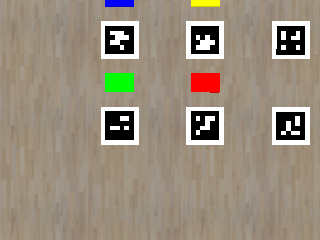
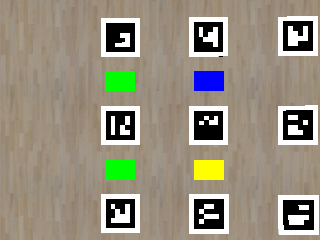
digit_detect fixed

diff --git a/clover_simulation/src/kinda_final/tracking_landing.py b/clover_simulation/src/kinda_final/tracking_landing.py
@@ -2,6 +2,7 @@
 
 import os
 import errno
+import sys
 import math
 import rospy
 import threading
@@ -17,10 +18,42 @@ import cv_test
 from mavros_msgs.srv import CommandBool
 import iamangrynow
 
+###################
+# UNCOMMENT FOR PROD
+##################
+
+# __INVENTARIZATION = True
+# __DP_DETECTION = True
+# __DELIVERING = True
+# __SIM = False
+
+# __DOUBLE_CHECK = True
+
+# __DEBUG_DP = False
+# __DEBUG_DPS = [(1, 1, 0), (3, 1, 2)]
+
+
+# SAFE_HEIGHT = 2.5
+# SPEED = 0.8
+# CAM_HEIGHT = 280
+# CAM_WIDTH = 320
+# TOLERANCE = 20
+# KX = 0.01
+# KY = 0.01
+# DEFAULT_ANGLE = 0
+# DELIVERY_SPEED = 0.5
+# INVENT_HEIGHT = 0.5
+# DP_DETECT_HEIGHT = 2.0
+
 __INVENTARIZATION = False
 __DP_DETECTION = True
 __DELIVERING = True
 __SIM = True
+
+__DOUBLE_CHECK = True
+
+__DEBUG_DP = False
+__DEBUG_DPS = [(1, 1, 0), (3, 1, 2)]
 
 
 SAFE_HEIGHT = 2.5
@@ -33,7 +66,7 @@ KY = 0.01
 DEFAULT_ANGLE = 0
 DELIVERY_SPEED = 0.5
 INVENT_HEIGHT = 1.0
-DP_DETECT_HEIGHT = 2.0
+DP_DETECT_HEIGHT = 2.5
 
 RECT = [0, 0, 0, 0]
 
@@ -110,7 +143,7 @@ def land_dpoint():
         d_y = y_c - cam_y_c
         print(str(d_x * KX) + ' ' + str(-d_y * KY))
         
-        navigate(y= -d_x * KX, x= -d_y * KY, z = 0.0, frame_id='body', speed=0.05) 
+        navigate(y= -d_x * KX, x= -d_y * KY, z = 0.0, frame_id='body', speed=0.01) 
         print('navigating', RECT)
         first_loop = True
         while not rospy.is_shutdown():
@@ -121,7 +154,7 @@ def land_dpoint():
             d_x = x_c - cam_x_c
             d_y = y_c - cam_y_c
 
-            if (math.sqrt(telem.x ** 2 + telem.y ** 2 + telem.z ** 2) < 0.05) or ((math.sqrt((d_x)**2 + (d_y)**2) > 100) and not first_loop):
+            if (math.sqrt(telem.x ** 2 + telem.y ** 2 + telem.z ** 2) < 0.05) or ((math.sqrt((d_x)**2 + (d_y)**2) > 50) and not first_loop):
                 center_the_rect()
 
             if math.sqrt((d_x)**2 + (d_y)**2) > TOLERANCE:
@@ -151,7 +184,8 @@ def land_dpoint():
     while True:
         telem = get_telemetry()
         if old_telem.z - telem.z < 0.01:
-            arming(False)
+            if not __SIM:
+                arming(False)
             break
         old_telem = telem
         rospy.sleep(0.1)
@@ -161,7 +195,7 @@ def land_dpoint():
 def goDetectDP():
     print('detecting dronepoints')
     dps = []
-    for i in range(5):
+    for i in range(4, -1, -1):
         if i % 2 == 0:
             for j in range(5):
                 navigate_wait(x=j * 0.9, y=i * 0.9, z = DP_DETECT_HEIGHT, frame_id='aruco_map')
@@ -179,6 +213,15 @@ def goDetectDP():
                     dps.append((j, i, 2))
                 elif res == 3:
                     dps.append((j, i, 3))
+
+                if __DOUBLE_CHECK:
+                    navigate_wait(x=j * 0.9, y=i * 0.9, z = DP_DETECT_HEIGHT-0.5, frame_id='aruco_map')
+                    rospy.sleep(1)
+                    # REMOVE BEFORE DEPLOY
+                    #continue
+                    ######################
+                    img = take_picture(dps_path + 'dps_' + str(i) + '_' + str(j) + '_0.5' + '.png')
+                    res = iamangrynow.recognize_digit(img)
         else:
             for j in range(4, -1, -1):
                 navigate_wait(x=j * 0.9, y=i * 0.9, z = DP_DETECT_HEIGHT, frame_id='aruco_map')
@@ -196,6 +239,15 @@ def goDetectDP():
                     dps.append((j, i, 2))
                 elif res == 3:
                     dps.append((j, i, 3))
+
+                if __DOUBLE_CHECK:
+                    navigate_wait(x=j * 0.9, y=i * 0.9, z = DP_DETECT_HEIGHT - 0.5, frame_id='aruco_map')
+                    rospy.sleep(1)
+                    # REMOVE BEFORE DEPLOY
+                    #continue
+                    ######################
+                    img = take_picture(dps_path + 'dps_' + str(i) + '_' + str(j)+ '0.5' + '.png')
+                    res = iamangrynow.recognize_digit(img)
     return dps
 
 
@@ -244,13 +296,15 @@ bridge = CvBridge()
 #                         TAKE OFF
 #################################################################
 
-navigate_wait(z=1.0, frame_id='body', auto_arm=True)
+navigate_wait(z=2.0, frame_id='body', auto_arm=True)
 print('lifted off')
+navigate_wait(x= 0.0, y=0.0, z=2.0, frame_id='aruco_map')
 
 #################################################################
 #                      INVENTARIZATION
 #################################################################
 balance = 0
+cargos = [[0, 'products'], [0, 'clothes'], [0, 'fragile packaging'], [0, 'correspondence']]
 if __INVENTARIZATION:
 
     def detect(img):
@@ -270,7 +324,6 @@ if __INVENTARIZATION:
                 cargos[3][0]+= 1
 
 
-    cargos = [[0, 'products'], [0, 'clothes'], [0, 'fragile packaging'], [0, 'correspondence']]
 
     navigate_wait(x=0 * 0.9, y= 6 * 0.9, z=2.0, frame_id='aruco_map')
     
@@ -285,18 +338,36 @@ if __INVENTARIZATION:
             print('cv_test calling')
             img = take_picture(invent_path + 'cv_' + str(title) + '.png')
             title += 1
-            img = cv2.cvtColor(img, cv2.COLOR_BGR2RGB)
             detect(img)
             print('cv_test is done')
+
+            if __DOUBLE_CHECK:
+                navigate_wait(x=j * 0.9 + 0.45, y= (6 - i) * 0.9 , z=INVENT_HEIGHT - 0.5, frame_id='aruco_map')
+                rospy.sleep(1)
+                print('cv_test calling')
+                img = take_picture(invent_path + 'cv_' + str(title) + '.png')
+                title += 1
+                detect(img)
+                print('cv_test is done')
+
         if i != ROWS - 1:
             for j in range(8, -1, -1):
                 navigate_wait(x=j * 0.45, y= (6 - i) * 0.9 - 0.45, z=INVENT_HEIGHT, frame_id='aruco_map')
+                rospy.sleep(1)
                 print('cv_test calling')
                 img = take_picture(invent_path + str(title) + '.png')
                 title += 1
-                img = cv2.cvtColor(img, cv2.COLOR_BGR2RGB)
                 detect(img)
                 print('cv_test is done')
+
+                if __DOUBLE_CHECK:
+                    navigate_wait(x=j * 0.45, y= (6 - i) * 0.9 - 0.45, z=INVENT_HEIGHT -0.5, frame_id='aruco_map')
+                    rospy.sleep(1)
+                    print('cv_test calling')
+                    img = take_picture(invent_path + str(title) + '.png')
+                    title += 1
+                    detect(img)
+                    print('cv_test is done')
         
     for cargo in cargos:
         balance +=  cargo[0]
@@ -311,15 +382,21 @@ if __INVENTARIZATION:
 #################################################################
 #                  DRONEPOINT DETECTION
 #################################################################
-
+dpoints = []
 if __DP_DETECTION:
     dpoints = goDetectDP()
 
+if __DEBUG_DP and not dpoints:
+    dpoints = __DEBUG_DPS
+    print('debug dps initiated')
 print(dpoints)
+
 
 #################################################################
 #                      DELIVERING
 #################################################################
+
+delivered = []
 
 if __DELIVERING and dpoints:
     proc_start = threading.Thread(target=start_dpProcessing)
@@ -348,28 +425,52 @@ if __DELIVERING and dpoints:
         print('led is on')
         if dpoint[2] == 0:
             set_effect(r=100, g=100, b=0)  # fill strip with yellow color
-            print('D' + str(dpoint[2]) + '_delivered ', str(cargos[0]))
+            print('D' + str(dpoint[2]) + '_delivered ' + str(cargos[0][1]))
+            delivered.append((0, cargos[0][1]))
 
         elif dpoint[2] == 1:
             set_effect(r=0, g=100, b=0)  # fill strip with green color
-            print('D' + str(dpoint[2]) + '_delivered ', str(cargos[1]))
+            print('D' + str(dpoint[2]) + '_delivered ' + str(cargos[1][1]))
+            delivered.append((1, cargos[1][1]))
         elif dpoint[2] == 2:
             set_effect(r=0, g=0, b=100)  # fill strip with blue color
-            print('D' + str(dpoint[2]) + '_delivered ', str(cargos[2]))
+            print('D' + str(dpoint[2]) + '_delivered ' + str(cargos[2][1]))
+            delivered.append((2, cargos[2][1]))
 
         elif dpoint[2] == 3:
             set_effect(r=100, g=0, b= 0) # fill strip with red color
-            print('D' + str(dpoint[2]) + '_delivered ', str(cargos[3]))
+            print('D' + str(dpoint[2]) + '_delivered ' + str(cargos[3][1]))
+            delivered.append((3, cargos[3][1]))
 
         rospy.sleep(10)
+        lifted_off = False
+        for i in range(3):
+            print('trying to lift off')
 
-        print('trying to lift off')
+            telem = get_telemetry(frame_id='aruco_map')
+            print(telem)
+            
+            navigate_wait(z=1.0, frame_id='body', auto_arm=True)
 
-        navigate_wait(z=1.0, frame_id='body', auto_arm=True)
+            new_telem = get_telemetry(frame_id='aruco_map')
+            print(new_telem)
+
+            if new_telem.z - telem.z > 0.2:
+                lifted_off = True
+                break
+            print("didn't lifted off")
+            print('retrying...')
+            rospy.sleep(2)
+        if not lifted_off:
+            print('i have got some problem with lifting off :((')
+            print('flight is over')
+            sys.exit()
+
         print('lifted off')
         set_effect(r=0, g=0, b= 0)
-        navigate_wait(x=0.9 * dpoints[i][0], y=0.9 * dpoints[i][1], z=1.0, speed=DELIVERY_SPEED, frame_id='aruco_map')
-        navigate_wait(x=0.9 * dpoints[i][0], y=0.9 * dpoints[i][1], z=2.0, speed=DELIVERY_SPEED, frame_id='aruco_map')
+        if __SIM:
+            navigate_wait(x=0.9 * dpoint[0], y=0.9 * dpoint[1], z=1.0, speed=DELIVERY_SPEED, frame_id='aruco_map')
+        navigate_wait(x=0.9 * dpoint[0], y=0.9 * dpoint[1], z=2.0, speed=DELIVERY_SPEED, frame_id='aruco_map')
 
 
 
@@ -381,8 +482,14 @@ navigate_wait(x=0.0, y=0.0, z=2.0, frame_id='aruco_map')
 print('target approached')
 navigate_wait(x=0.0, y=0.0, z=0.5, frame_id='aruco_map')
 land()
-proc_start.join()
+
+for cargo in delivered:
+    print('D' + str(cargo[0]) + '_delivered ' + str(cargos[1]))
+    balance -= cargos[1]
+print('Balance: ' + str(balance) + ' cargo.')
+    
 print('flight is over')
+proc_start.join()
 
 
 

diff --git a/clover_simulation/src/kinda_final/iamangrynow.py b/clover_simulation/src/kinda_final/iamangrynow.py
@@ -1,6 +1,7 @@
 import numpy as np
 import cv2
 from cv2 import aruco
+import os
 
 CROPP_DIM = 120
 
@@ -65,10 +66,14 @@ def recognize_digit(photo):
     # Initiate SIFT detector
     orb = cv2.ORB_create()      #     TODO:     |
     weights = {}                #  FIX THIS     V
-    weights[0] = compute_weight(' digit recognition/new_zero.png', photo, orb)
-    weights[1] = compute_weight(' digit recognition/new_one.png', photo, orb)
-    weights[2] = compute_weight(' digit recognition/new_two.png', photo, orb)
-    weights[3] = compute_weight(' digit recognition/new_three.png', photo, orb)
+    path = os.path.abspath(__file__)
+    print(path)
+    path = path.rstrip('iamangrynow.pyc') + 'digit_recognition/'
+    print(path)
+    weights[0] = compute_weight(path + 'new_zero.png', photo, orb)
+    weights[1] = compute_weight(path + 'new_one.png', photo, orb)
+    weights[2] = compute_weight(path + 'new_two.png', photo, orb)
+    weights[3] = compute_weight(path + 'new_three.png', photo, orb)
     #print(weights.values())
     return(min(weights, key=weights.get))
 
